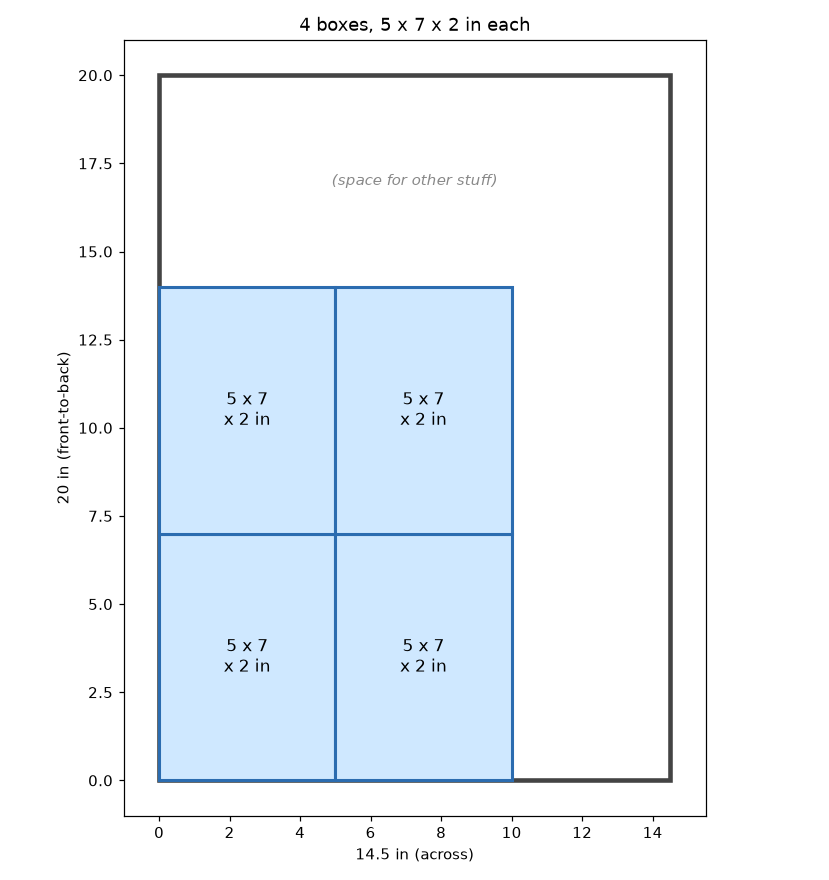
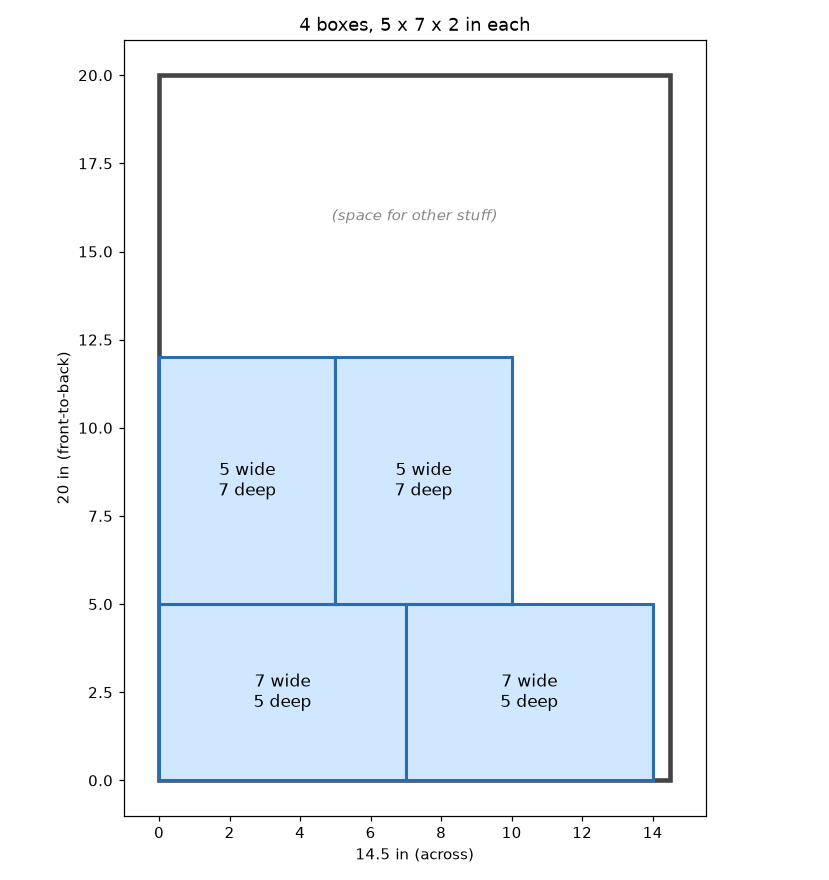
Turn front-row boxes sideways in layout
Front two boxes rotated 90 deg (7 in across x 5 in deep) to fill the
width; back two stay 5 across x 7 deep. Same 5x7x2 box, just rotated.

Claude-Session: https://claude.ai/code/session_01N378vC5N84T5hZN3z5JBkC

diff --git a/src/generate_drawer_organizer.py b/src/generate_drawer_organizer.py
@@ -56,15 +56,26 @@ def main():
     box_path = os.path.join(OUT_DIR, "drink_box.stl")
     box.export(box_path)
 
-    # place N_ACROSS x N_DEEP boxes, front-anchored (drawer X=across, Y=deep)
+    # Layout, as drawn on the sketch:
+    #   FRONT row: 2 boxes turned SIDEWAYS -> 7 in across x 5 in deep (fills width)
+    #   BACK row : 2 boxes normal          -> 5 in across x 7 in deep
+    # (x0, y0) = lower-left corner in inches; (w, d) = across, deep; rot = sideways?
+    rects = [
+        (0.0, 0.0, BOX_DEEP_IN,   BOX_ACROSS_IN, True),   # front-left sideways
+        (7.0, 0.0, BOX_DEEP_IN,   BOX_ACROSS_IN, True),   # front-right sideways
+        (0.0, 5.0, BOX_ACROSS_IN, BOX_DEEP_IN,   False),  # back-left
+        (5.0, 5.0, BOX_ACROSS_IN, BOX_DEEP_IN,   False),  # back-right
+    ]
+
     combo = []
-    for a in range(N_ACROSS):
-        for d in range(N_DEEP):
-            m = box.copy()
-            x = (-DRAWER_W_IN / 2 + (a + 0.5) * BOX_ACROSS_IN) * IN
-            y = (-DRAWER_L_IN / 2 + (d + 0.5) * BOX_DEEP_IN) * IN
-            m.apply_translation([x, y, 0])
-            combo.append(m)
+    for (x0, y0, w, d, rot) in rects:
+        m = box.copy()
+        if rot:
+            m.apply_transform(trimesh.transformations.rotation_matrix(np.pi / 2, [0, 0, 1]))
+        cx = (-DRAWER_W_IN / 2 + x0 + w / 2) * IN
+        cy = (-DRAWER_L_IN / 2 + y0 + d / 2) * IN
+        m.apply_translation([cx, cy, 0])
+        combo.append(m)
     trimesh.util.concatenate(combo).export(
         os.path.join(OUT_DIR, "drawer_layout_preview.stl"))
 
@@ -97,15 +108,11 @@ def main():
         # Top-down: WIDTH horizontal (14.5 in), LENGTH vertical (20 in), front at bottom
         fig, ax = plt.subplots(figsize=(8 * DRAWER_W_IN / DRAWER_L_IN * 1.3, 8))
         ax.add_patch(Rectangle((0, 0), DRAWER_W_IN, DRAWER_L_IN, fill=False, lw=3, ec="#444"))
-        for a in range(N_ACROSS):
-            for d in range(N_DEEP):
-                x = a * BOX_ACROSS_IN
-                y = d * BOX_DEEP_IN
-                ax.add_patch(Rectangle((x, y), BOX_ACROSS_IN, BOX_DEEP_IN,
-                                       fc="#cfe8ff", ec="#2b6cb0", lw=2))
-                ax.text(x + BOX_ACROSS_IN/2, y + BOX_DEEP_IN/2, "5 x 7\nx 2 in",
-                        ha="center", va="center", fontsize=11)
-        ax.text(DRAWER_W_IN/2, (N_DEEP*BOX_DEEP_IN + DRAWER_L_IN)/2, "(space for other stuff)",
+        for (x0, y0, w, d, rot) in rects:
+            ax.add_patch(Rectangle((x0, y0), w, d, fc="#cfe8ff", ec="#2b6cb0", lw=2))
+            label = "7 wide\n5 deep" if rot else "5 wide\n7 deep"
+            ax.text(x0 + w/2, y0 + d/2, label, ha="center", va="center", fontsize=11)
+        ax.text(DRAWER_W_IN/2, (12 + DRAWER_L_IN)/2, "(space for other stuff)",
                 ha="center", va="center", fontsize=10, color="#888", style="italic")
         ax.set_xlim(-1, DRAWER_W_IN + 1); ax.set_ylim(-1, DRAWER_L_IN + 1); ax.set_aspect("equal")
         ax.set_xlabel("14.5 in (across)"); ax.set_ylabel("20 in (front-to-back)")
